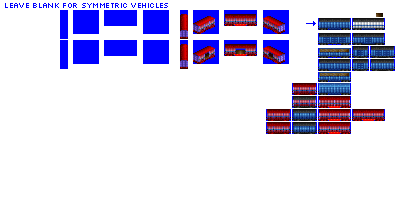
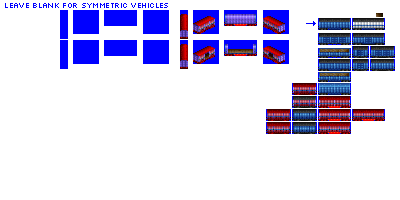
Change: WIP on curtain side car sprites

Changed region(s): [[0.54, 0.21, 0.66, 0.27], [0.54, 0.06, 0.66, 0.12]]

diff --git a/src/vehicles/curtain_side_cars.py b/src/vehicles/curtain_side_cars.py
@@ -31,7 +31,7 @@ def main():
                             sprites_complete=False)
 
     consist.add_unit(type=FreightCar,
-                     chassis='2_axle_filled_24px')
+                     chassis='4_axle_filled_24px')
 
     consist = CurtainSideCarConsist(roster='pony',
                             base_numeric_id=350,
@@ -40,7 +40,7 @@ def main():
                             sprites_complete=False)
 
     consist.add_unit(type=FreightCar,
-                     chassis='4_axle_1cc_filled_32px')
+                     chassis='4_axle_filled_32px')
 
     consist = CurtainSideCarConsist(roster='pony',
                             base_numeric_id=370,
@@ -49,7 +49,7 @@ def main():
                             sprites_complete=False)
 
     consist.add_unit(type=FreightCar,
-                     chassis='2_axle_filled_24px')
+                     chassis='4_axle_filled_24px')
 
     consist = CurtainSideCarConsist(roster='pony',
                             base_numeric_id=400,
